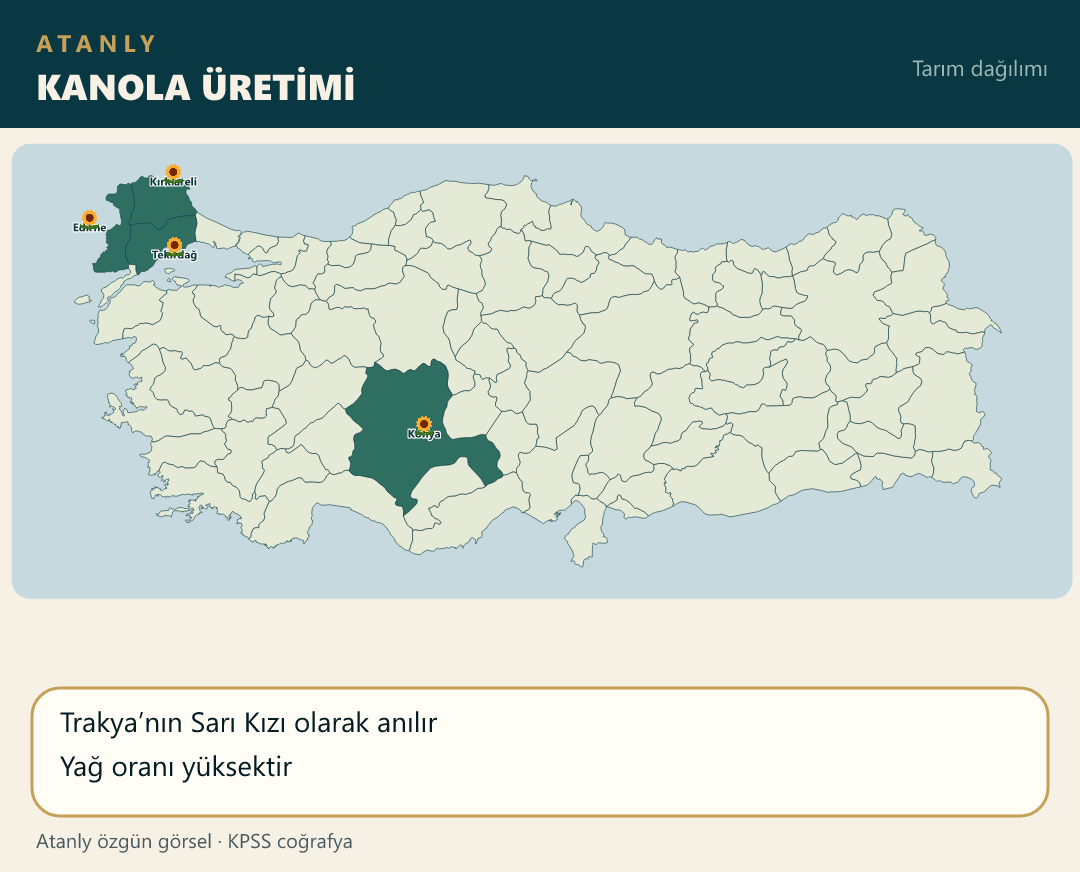
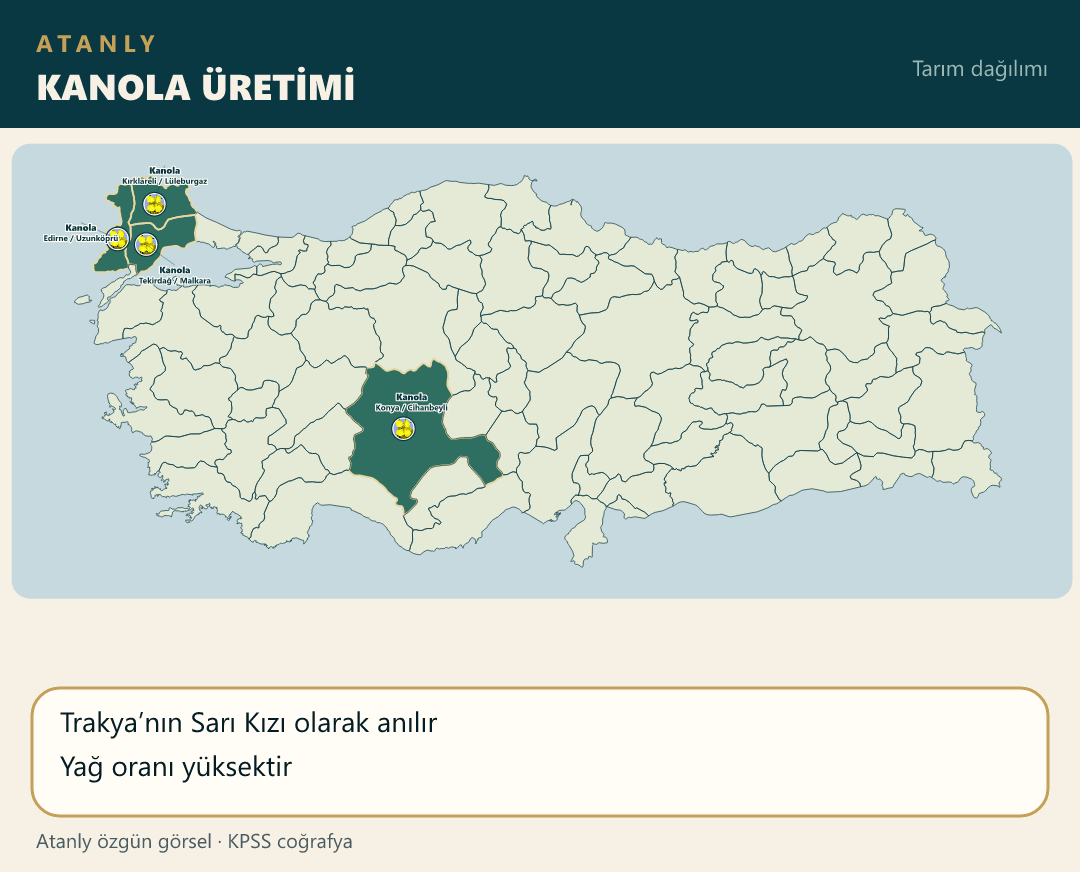
Place the canola flower photo on Thrace and Konya production pins.

diff --git a/scripts/build-atanly-maps.js b/scripts/build-atanly-maps.js
@@ -664,7 +664,14 @@ function main() {
             facts: ["Isparta ‘gül bahçesi’ olarak anılır", "Yağ gülü üretimi yoğundur"] },
         { file: "turunc.png", title: "TURUNÇGİL ÜRETİMİ", iller: ["Antalya", "Mersin", "Adana", "Hatay", "Muğla"], facts: ["Akdeniz kıyı kuşağı", "Don riski düşük yerlerde yetişir"] },
         { file: "kenevir.jpg", title: "KENEVİR ÜRETİMİ", iller: ["Kastamonu", "Amasya", "Samsun"], facts: ["Devlet kontrolündedir", "Tohumuna çedene denir", "Ekime en çok izin Karadeniz’dedir"] },
-        { file: "kanola.jpg", title: "KANOLA ÜRETİMİ", iller: ["Tekirdağ", "Edirne", "Kırklareli", "Konya"], facts: ["Trakya’nın Sarı Kızı olarak anılır", "Yağ oranı yüksektir"] },
+        { file: "kanola.jpg", title: "KANOLA ÜRETİMİ", urun: "Kanola",
+            noktalar: [
+                { il: "Edirne", ilce: "Uzunköprü", ldx: -36, ldy: -8 },
+                { il: "Kırklareli", ilce: "Lüleburgaz", ldx: 10, ldy: -30 },
+                { il: "Tekirdağ", ilce: "Malkara", ldx: 28, ldy: 28 },
+                { il: "Konya", ilce: "Cihanbeyli", ldx: 8, ldy: -28 }
+            ],
+            facts: ["Trakya’nın Sarı Kızı olarak anılır", "Yağ oranı yüksektir"] },
         { file: "pirinc.jpg", title: "ÇELTİK / PİRİNÇ", iller: ["Edirne", "Samsun", "Balıkesir"], facts: ["Meriç boyları başta gelir", "Diğer ekim alanları Osmancık ve Tosya", "Üretim devlet kontrolündedir"] },
         { file: "ay_cicek.jpg", title: "AYÇİÇEĞİ ÜRETİMİ", urun: "Ayçiçeği",
             noktalar: [

diff --git a/notlar/cografya-18-not.js b/notlar/cografya-18-not.js
@@ -376,7 +376,7 @@ window.cografya_18_notlari = [
     </div>
      <!-- 🗺 HARİTA / RESİM ALANI -->
             <div class="mt-4 overflow-hidden rounded-xl border border-blue-200 dark:border-blue-700/50 bg-white dark:bg-slate-800 p-2">
-                <img src="./src/img/kanola.jpg?v=9" alt="FINDIK Haritası" class="w-full h-auto rounded-lg object-contain" loading="lazy">
+                <img src="./src/img/kanola.jpg?v=10" alt="KANOLA Haritası" class="w-full h-auto rounded-lg object-contain" loading="lazy">
             </div>
     `
 ];

diff --git a/index.html b/index.html
@@ -116,7 +116,7 @@
     <script src="notlar/cografya-15-not.js?v=9"></script>
     <script src="notlar/cografya-16-not.js?v=3"></script>
     <script src="notlar/cografya-17-not.js?v=3"></script>
-    <script src="notlar/cografya-18-not.js?v=15"></script>
+    <script src="notlar/cografya-18-not.js?v=16"></script>
     <script src="notlar/cografya-19-not.js?v=23"></script>
     <script src="notlar/cografya-20-not.js?v=1"></script>
     <script src="notlar/cografya-21-not.js?v=4"></script>
